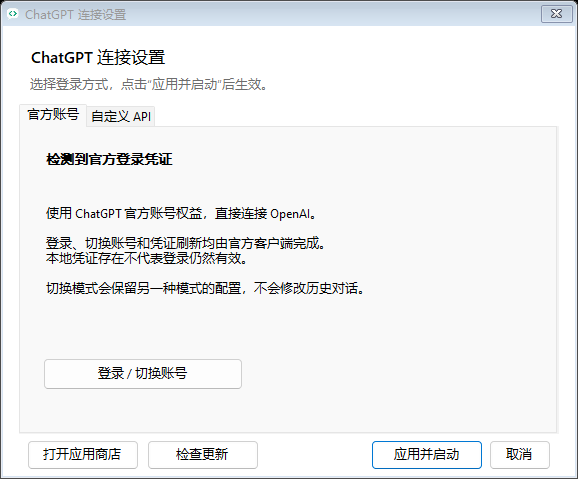
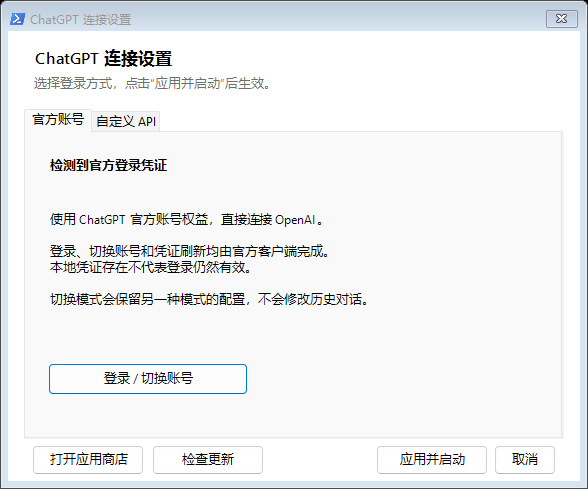
fix: 缩小标题说明区域以消除 Tab 标签遮挡

diff --git a/ChatGPTApiOnly.cs b/ChatGPTApiOnly.cs
@@ -471,14 +471,14 @@ internal static class ChatGPTApiOnly
             var heading = new Label
             {
                 AutoSize = true,
-                Location = new Point(24, 20),
+                Location = new Point(24, 16),
                 Font = new Font("Segoe UI Semibold", 12F, FontStyle.Bold, GraphicsUnit.Point),
                 Text = "\u914d\u7f6e\u81ea\u5b9a\u4e49 API"
             };
             var intro = new Label
             {
-                Location = new Point(24, 51),
-                Size = new Size(520, 38),
+                Location = new Point(24, 44),
+                Size = new Size(520, 22),
                 ForeColor = SystemColors.GrayText,
                 Text = "\u4fdd\u5b58\u540e\u5c06\u7ee7\u7eed\u542f\u52a8 ChatGPT\u3002\u914d\u7f6e\u4fdd\u5b58\u5728\u7528\u6237\u76ee\u5f55\u7684 .codex \u6587\u4ef6\u5939\u3002"
             };
